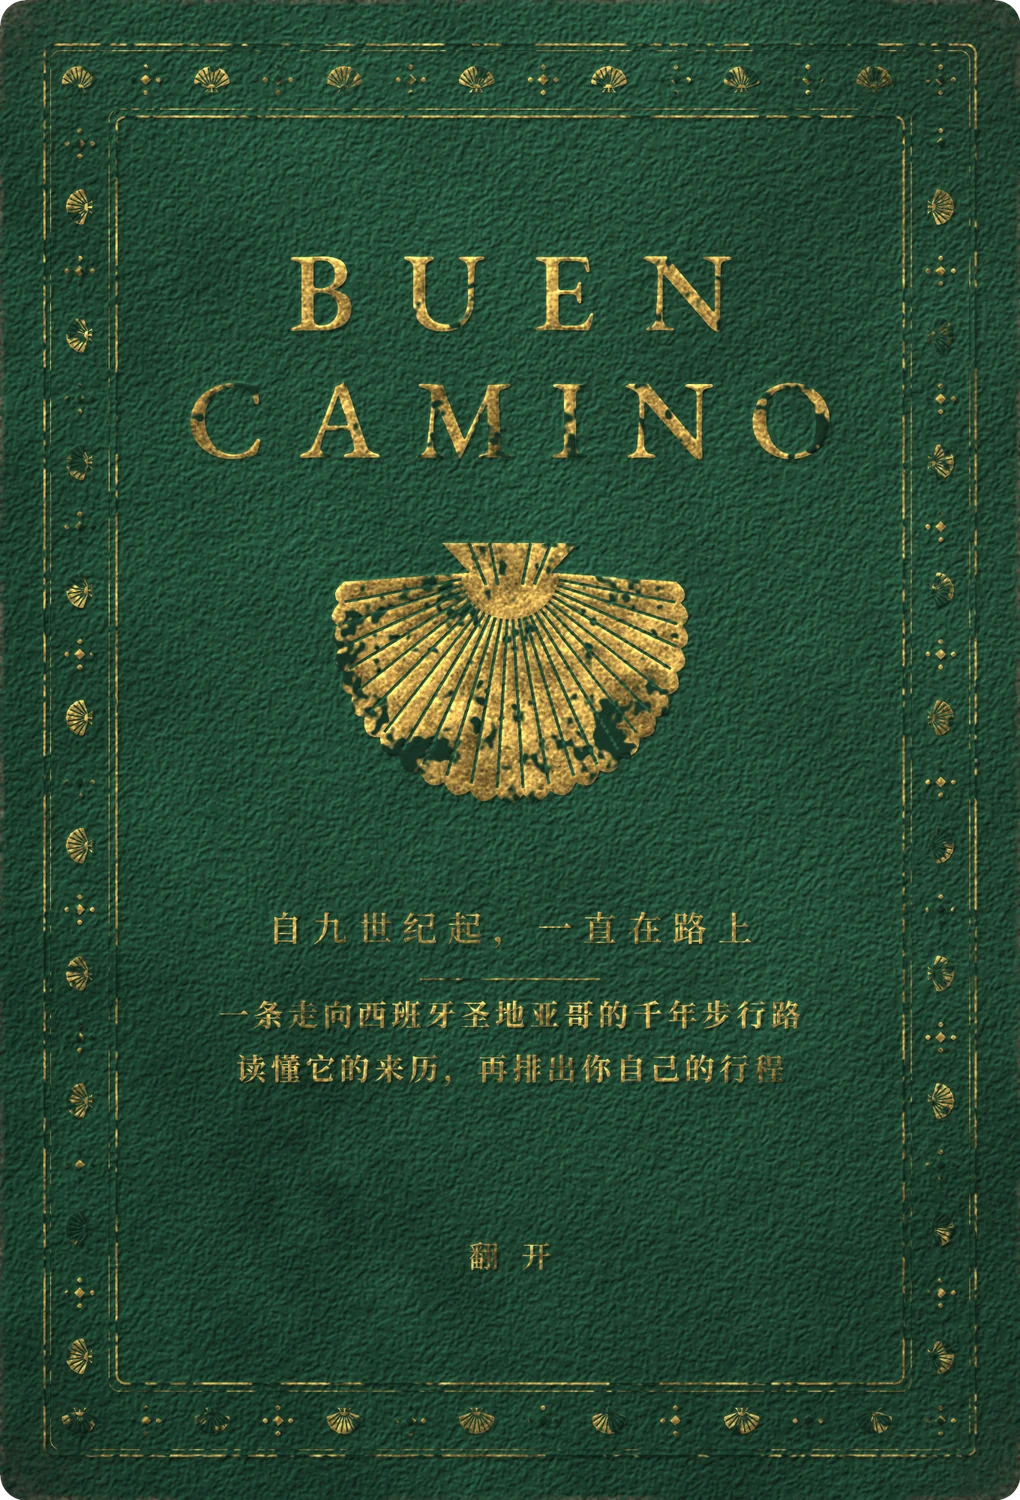
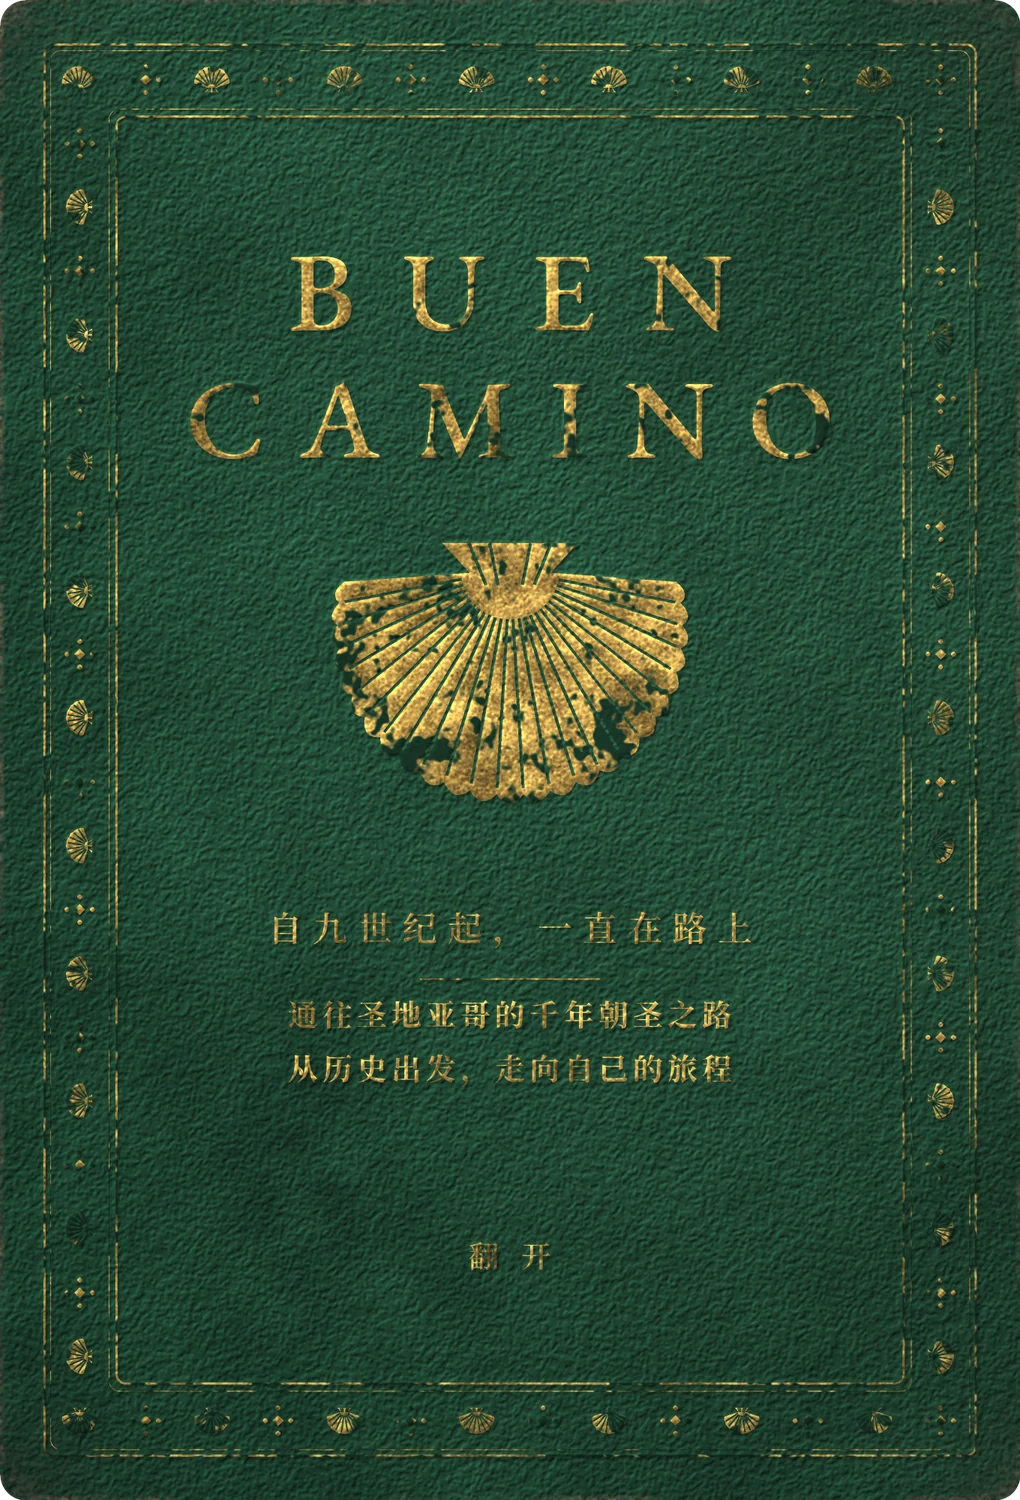
Reword the cover subtitle
Claude-Session: https://claude.ai/code/session_01E2uYwjtXrkfxL4hTwe1YLa

Changed region(s): [[0.2127, 0.644, 0.7902, 0.736]]

diff --git a/index.html b/index.html
@@ -1091,7 +1091,7 @@ let rsT;$('#reset').onclick=e=>{const b=e.currentTarget;if(!b.dataset.arm){b.dat
 
 /* ---------- the book talks ---------- */
 function showCover(){const b=$('#intro');b.classList.remove('gone');$('#chooser').hidden=true;
- b.innerHTML=`<button class="cover" id="opn" type="button" aria-label="翻开这本书：Buen Camino，一条走向西班牙圣地亚哥的千年步行路"><span class="leaves"></span><img class="cv" src="${A('cover2.webp')}" alt=""><span class="ribbon"></span></button>`;
+ b.innerHTML=`<button class="cover" id="opn" type="button" aria-label="翻开这本书：Buen Camino，通往圣地亚哥的千年朝圣之路，从历史出发，走向自己的旅程"><span class="leaves"></span><img class="cv" src="${A('cover2.webp')}" alt=""><span class="ribbon"></span></button>`;
  $('#skip').hidden=false;$('#opn').onclick=()=>{const c=$('#opn');c.classList.add('opening');setTimeout(()=>{S.page=0;if(S.road&&Object.keys(S.foot).length+Object.keys(S.pin).length>0)showBack();else{S.phase='intro';save();showPage()}},matchMedia('(prefers-reduced-motion:reduce)').matches?0:560)};}
 function showBack(){const b=$('#intro'),x=ROUTES.find(y=>y.id===S.road),c=CH[S.road];b.innerHTML=`<div class="spread"><figure class="pgl"><p class="rh">书签</p><img src="${A('woodcut.jpg')}" alt=""><figcaption>1495 年朝圣指南的扉页木刻</figcaption></figure><div class="pgr"><p class="rh r">BUEN CAMINO</p><div class="say"><h2 class="ph"><svg class="mg" viewBox="-12 -12 24 24" aria-hidden="true"><path d="M0 9L-9-1Q-9.5-6-6-8.5Q-3-10.5 0-10Q3-10.5 6-8.5Q9.5-6 9-1Z"/><path d="M0 9L-6-7M0 9L-3-9.5M0 9L0-10M0 9L3-9.5M0 9L6-7" fill="none" stroke="#F1E6C6" stroke-width=".9"/></svg>又见面了</h2><p>上回走到${x.n}，同行的是 ${c.y} 年的${c.s}。你已读了 ${lit(S.road)}/${total(S.road)} 页。</p><p>接着走，还是从头再听我讲一遍？</p></div><div class="ans"><button type="button" id="bk1">接着走</button><button type="button" id="bk2">从头听一遍</button></div></div></div>`;$('#bk1').onclick=resume;$('#bk2').onclick=()=>{S.page=0;S.phase='intro';save();showPage()}}
 function resume(){$('#intro').classList.add('gone');$('#skip').hidden=true;if(S.road){S.phase='play';if(!S.node)S.node=nodesOf(S.road)[0];S.tab='here';save();render();flyRoad(S.road)}else{S.phase='choose';S.tab='routes';save();showChooser();render()}}
